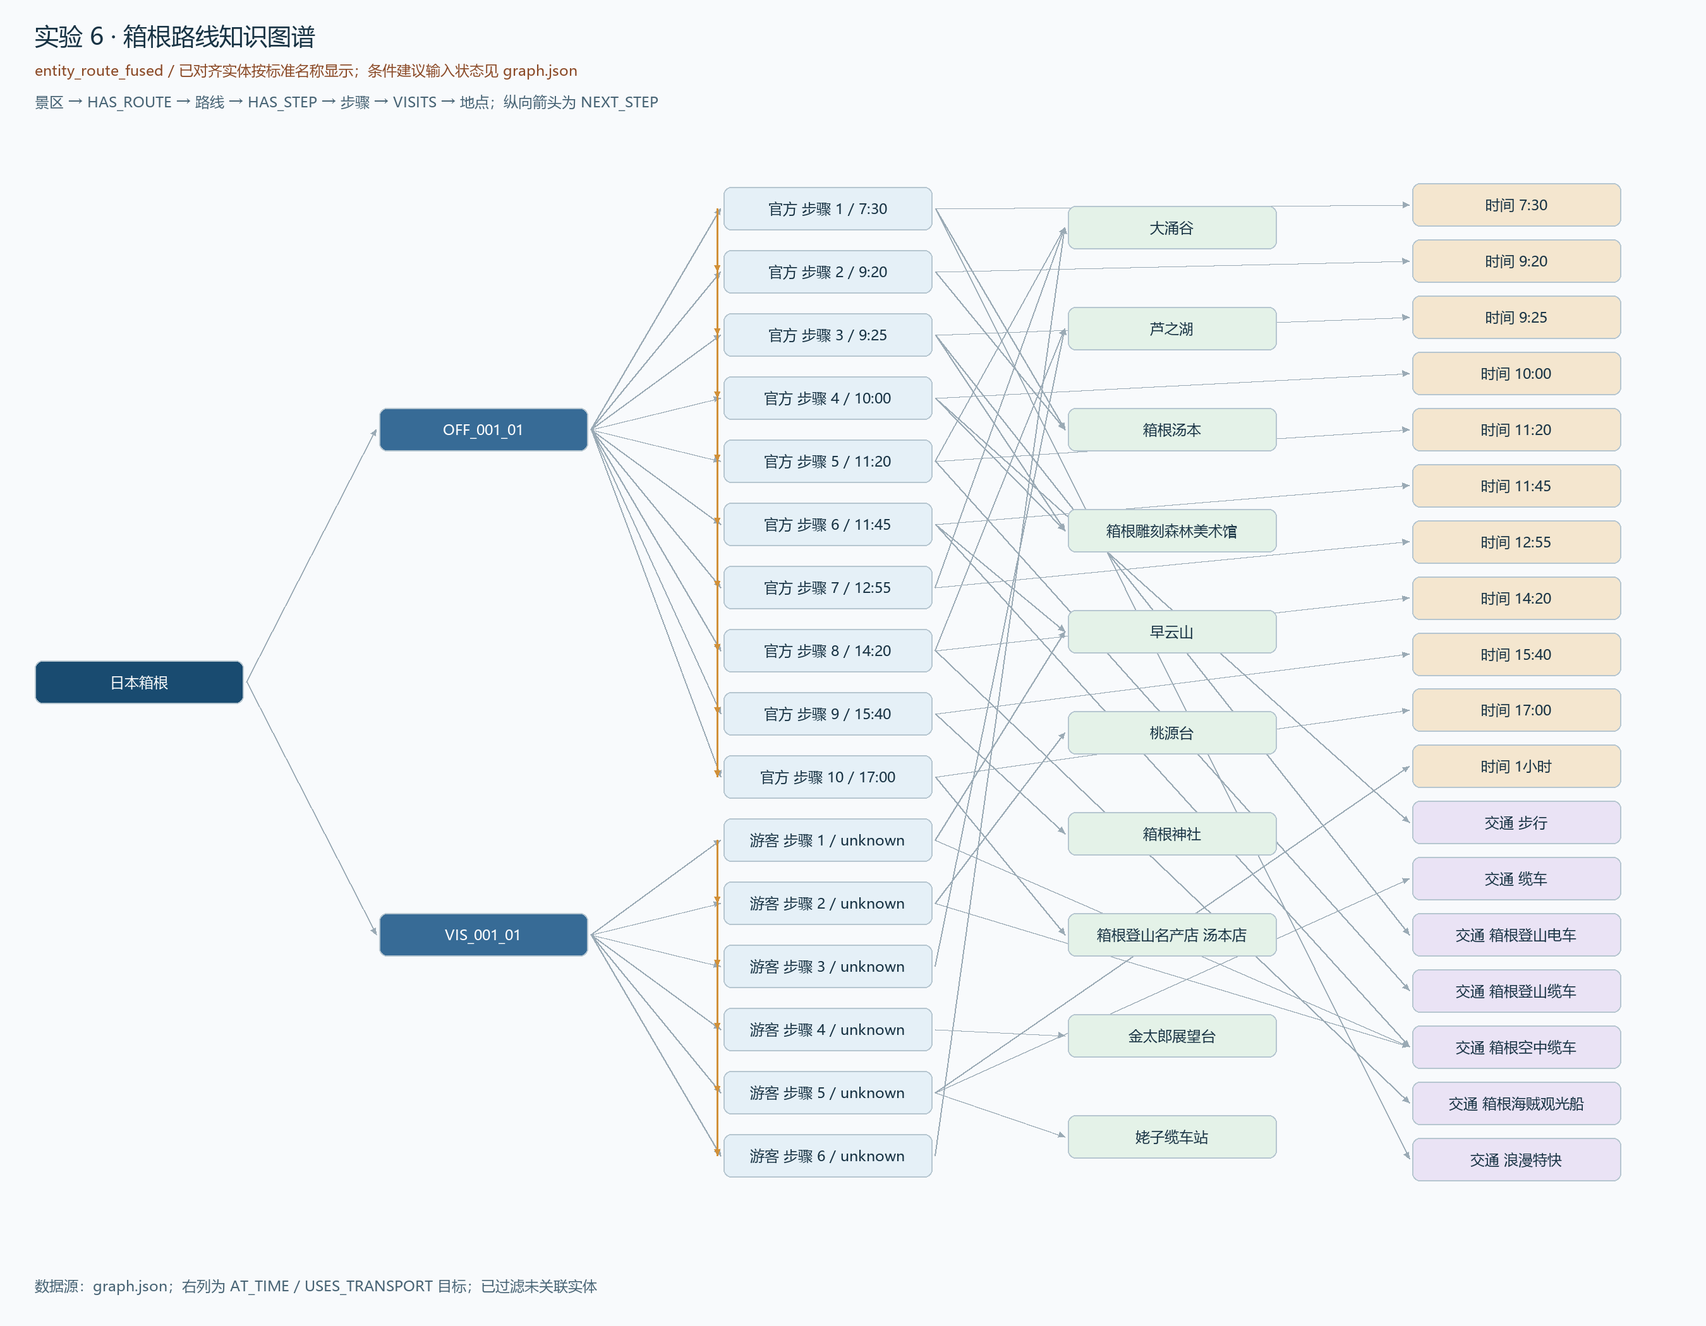
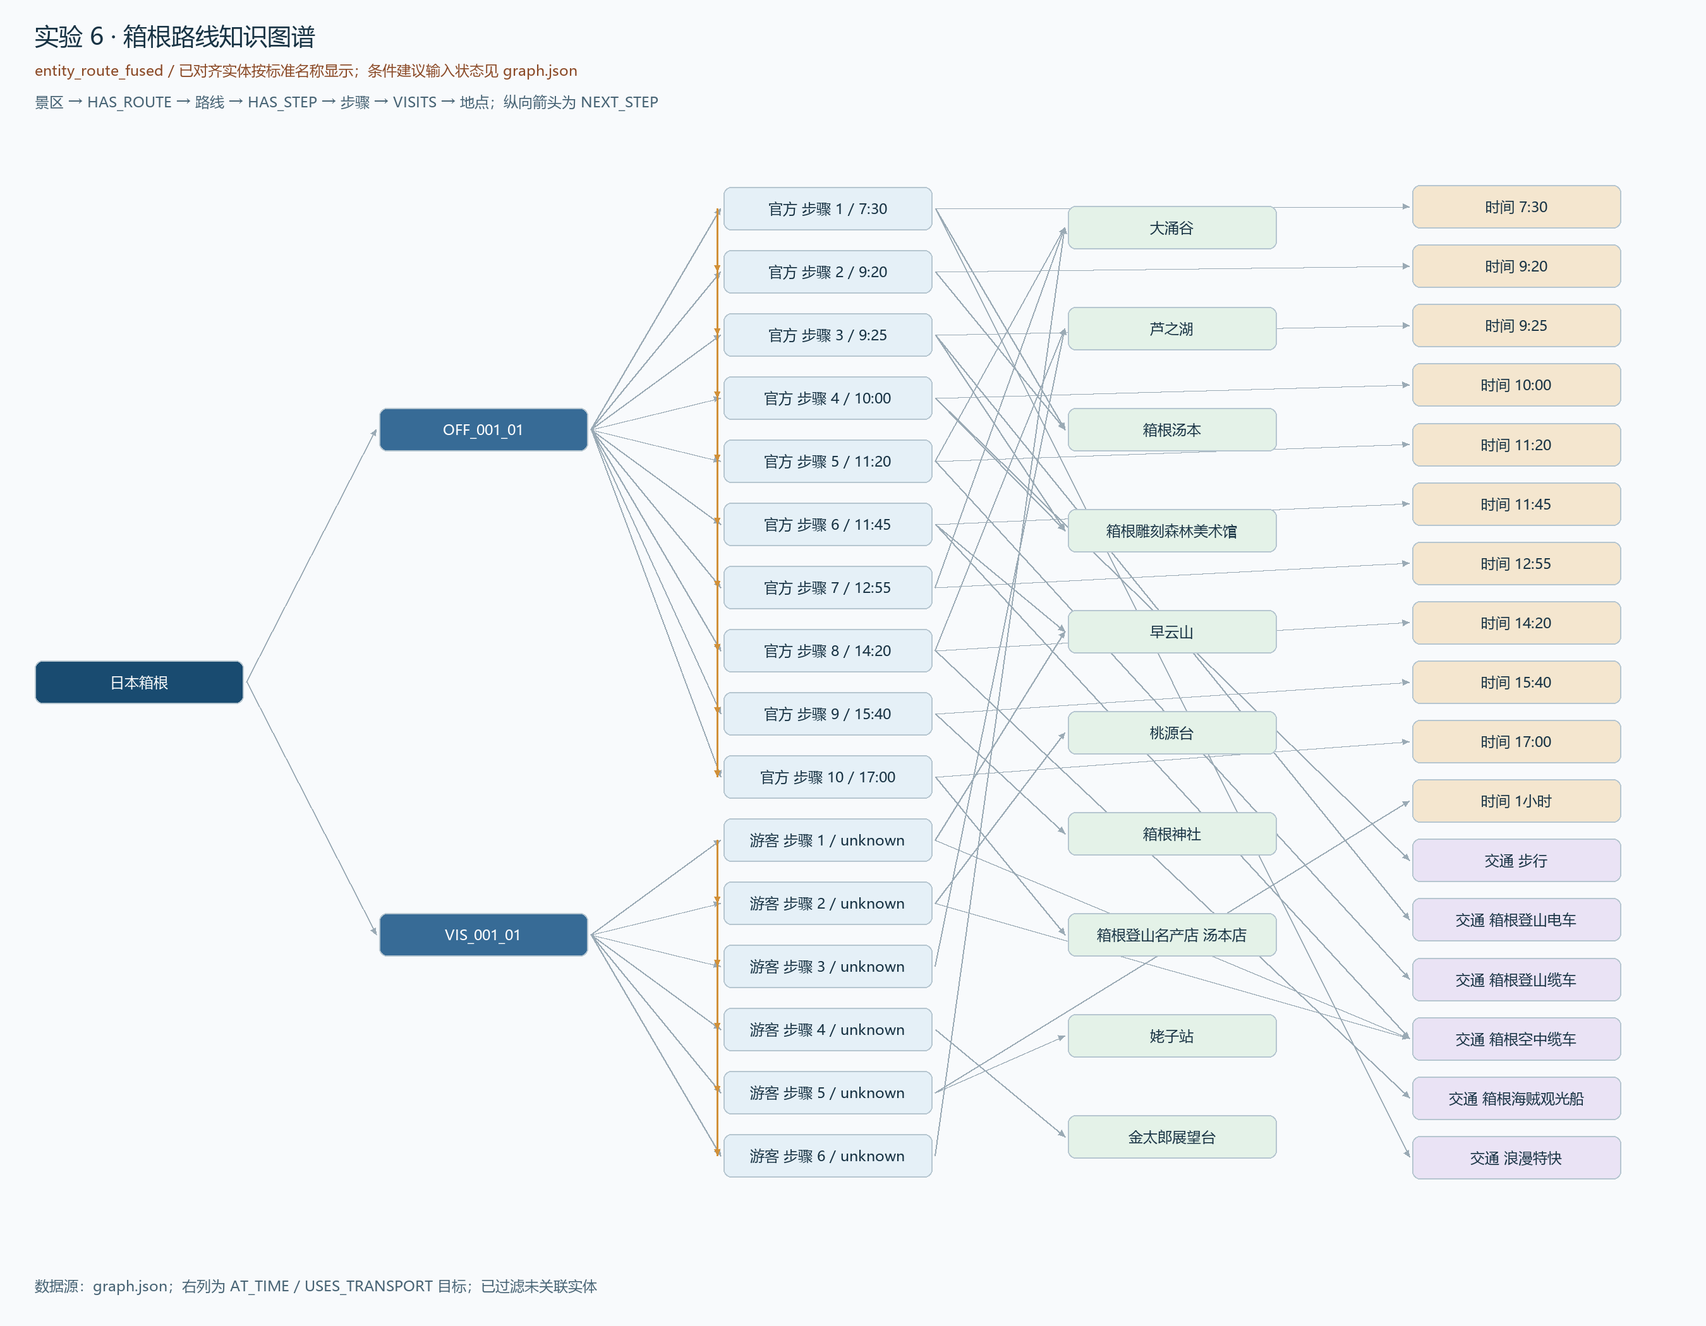
Complete all route entity alignments with DHT exp02-v1.1

diff --git a/src/exp06_verify.py b/src/exp06_verify.py
@@ -74,6 +74,25 @@ def main():
                         "bilingual_resolved": [s for s in alignment if s["alignment_method"] == "bilingual_components"],
                         "inactive_entities_skipped": data.get("inactive_entities_skipped", []),
                         "unused_entity_nodes_filtered": len(data.get("unused_entity_nodes_filtered", []))}
+    confirmation_path = Path("data/resources/exp02_alignment_confirmations.json")
+    if confirmation_path.exists():
+        confirmations = json.loads(confirmation_path.read_text(encoding="utf-8"))
+        assert confirmations["corpus_version"] == data["corpus_version"], "确认文件语料版本不一致"
+        assert confirmations["resource_version"] == data["entity_resource_version"], "实体资源版本不一致"
+        confirmed = []
+        for item in confirmations["mappings"]:
+            ref = item["evidence"]
+            assert docs[ref["doc_id"]]["text"][ref["start"]:ref["end"]] == ref["text"]
+            matched = [s for s in alignment if s["raw_poi_name"] == item["surface"]
+                       and any(e["doc_id"] == ref["doc_id"] for e in s["evidence"])]
+            assert matched, "确认映射未接入路线"
+            assert all(s["entity_id"] == item["entity_id"] for s in matched), "确认映射 ID 错误"
+            assert "N_ENTITY_" + item["entity_id"] in graph, "确认实体未进入图谱"
+            confirmed.append({"surface": item["surface"], "entity_id": item["entity_id"],
+                              "route_steps": [{"route_id": s["route_id"], "step_no": s["step_no"]}
+                                              for s in matched], "passed": True})
+        alignment_result["entity_resource_version"] = confirmations["resource_version"]
+        alignment_result["confirmed_updates"] = confirmed
     Path("results/checks/exp06_alignment.json").write_text(json.dumps(alignment_result, ensure_ascii=False, indent=2) + "\n", encoding="utf-8")
     print(json.dumps({"nodes": graph.number_of_nodes(), "edges": graph.number_of_edges(),
                       "route_checks": len(chain_results), "checks_passed": True}))

diff --git a/src/exp06_graph.py b/src/exp06_graph.py
@@ -175,6 +175,7 @@ def build(routes_data, registry, entities=None, advice=None):
         del nodes[nid]
     missing = [name for name, value in (("entities.json", entities), ("advice.json", advice)) if value is None]
     return {"schema_version": "1.0", "corpus_version": version, "graph_version": "v1",
+            "entity_resource_version": (entities or {}).get("resource_version"),
             "completion_status": "route_stage" if entities is None else "entity_route_fused" if advice is None else "fused",
             "inactive_entities_skipped": sorted(inactive),
             "unused_entity_nodes_filtered": unused,

diff --git a/reports/YZH_当前进度.md b/reports/YZH_当前进度.md
@@ -1,24 +1,22 @@
 # YZH 当前进度与暂停范围
 
-依据 DHT 已提交的实验 1 语料和实验 2 实体（corpus v1、exp02-v1）完成以下工作：
+依据 DHT 已提交的实验 1 语料和实验 2 实体（corpus v1、exp02-v1.1，main 提交 efd920f）完成以下工作：
 
 | 工作 | 当前结果 |
 | --- | --- |
 | 实验 3：路线结构 | 箱根、蓝山两种官方文本格式及对应游客片段；4 条路线、30 个步骤 |
 | 实验 3：比较与图表 | 地点、顺序、时间表达对比；路线层级 PNG、报告、开发集与前后指标齐备 |
-| 实体对齐 | 28/30 步对齐；25 步整串唯一匹配、3 步双语组成部分指向同一 DHT ID |
-| 实验 6：实体路线融合 | 景点、路线、步骤、交通、时间均已接入；83 节点、119 边 |
+| 实体对齐 | 30/30 步对齐；27 步整串唯一匹配、3 步双语组成部分指向同一 DHT ID |
+| 实验 6：实体路线融合 | 景点、路线、步骤、交通、时间均已接入；82 节点、118 边 |
 | 质量与复现 | 原文位置、来源、步骤链、图查询检查通过；无孤立节点；12 项接口与边界测试通过 |
 | 交接 | JSON、CSV、两张 PNG、运行说明、实验 3/6 报告及接收记录已更新 |
 
 以上是当前已交付数据支持的工作范围，不需要等待 DHT 再次提供语料或实体文件。开发集参考标注由本次开发辅助整理，仍需组员独立复核；开发集 30/30 不代表全语料准确率。
 
-已检查并同步 DHT 最新实验 4 提交 c258291：59 例共指、404 处证据位置验证通过；同步后图谱与 12 项测试仍通过。该提交未改变实体目录或两处待确认名称，故未解除下列暂停项。接收细节见 results/checks/exp06_exp04_receipt.md；未将未经逐例复核的共指预测写为图谱事实。
+已接收 DHT 实验 4 共指结果并完成兼容检查，未将未经逐例复核的共指预测写为图谱事实。此后 DHT 在 efd920f 中补齐两处实体映射：姥子缆车站→姥子站 S001_POI_026；野餐区→独立实体 S003_POI_052。两处路线及图谱引用已验证，DHT 数据缺口已解除。
 
 ## 暂停的工作
 
-1. **姥子缆车站的标准 ID**：DHT 目录登记“姥子站”，尚未登记当前原词为其别名。暂停该步归一化，保留原词、null ID 和证据，待 DHT 确认。
-2. **温特沃斯瀑布野餐区的标准 ID**：不能把野餐区直接归为瀑布、步道或镇区。暂停该步归一化，待 DHT 确认独立实体或映射。
-3. **条件建议融合与相关查询**：FYH 的 data/outputs/advice.json 尚未提交，暂停真实建议融合。现有图谱状态为 entity_route_fused，missing_inputs=[advice.json]。
+仅暂停**条件建议融合与相关查询**：FYH 的 data/outputs/advice.json 尚未提交。现有图谱状态为 entity_route_fused，missing_inputs=[advice.json]。该项到位后继续真实建议融合、图查询、图表及报告更新。
 
-两处名称的路线编号、步骤和原文区间见 results/checks/exp06_alignment.json。没有改写 DHT 的目录，也没有编造建议。相关数据到位并恢复工作后，按 YZH_运行与验收.md 复跑、更新图表及报告；暂停期间不后台轮询或自动推进这些部分。
+已完成的两处名称确认、步骤和原文区间见 results/checks/exp06_alignment.json，pending 为空。当前没有剩余 DHT 数据依赖。相关建议数据到位并恢复工作后，按 YZH_运行与验收.md 复跑；暂停期间不后台轮询或编造建议。组员对参考标注和接收样例的独立复核仍待完成。

diff --git a/results/checks/exp06_handoff.md b/results/checks/exp06_handoff.md
@@ -2,12 +2,12 @@
 
 - 版本：schema_version=1.0、corpus_version=v1、graph_version=v1；当前 completion_status=entity_route_fused。
 - 交付：src/exp06_graph.py、src/exp06_verify.py、src/yzh_figures.py；data/outputs/graph.json、graph_nodes.csv、graph_edges.csv；reports/exp06_graph.md；results/figures/exp06_hakone_graph.png；质量与查询证据 exp06_quality.json。
-- 输入：景区登记表、routes.json、DHT 正式 entities.json（exp02-v1）；仅缺少 FYH 的 advice.json。
-- 数量：83 节点、119 边，覆盖箱根与蓝山 4 条路线及关联交通、时间实体；30 步中 28 步对齐。无孤立节点，2 个弱连通分量分别对应两个景区。
+- 输入：景区登记表、routes.json、DHT 正式 entities.json（exp02-v1.1）；仅缺少 FYH 的 advice.json。
+- 数量：82 节点、118 边，覆盖箱根与蓝山 4 条路线及关联交通、时间实体；30 步中 30 步对齐。无孤立节点，2 个弱连通分量分别对应两个景区。
 - 依赖与命令：pip install -r requirements-yzh.txt；python src/exp03_routes.py；python src/exp06_graph.py；python src/exp06_verify.py；python src/yzh_figures.py。
 - 输入输出例：R_S001_OFF_001_01 生成 N_ROUTE_R_S001_OFF_001_01；第 1 步生成 N_STEP_R_S001_OFF_001_01_001，由 HAS_STEP 连接，步骤再沿 VISITS 指向地点。
 - 查询样例：① S001 沿 HAS_ROUTE → 2 条路线；② 官方箱根路线沿 HAS_STEP → 10 步；③ 大涌谷入向 VISITS → 3 个步骤。查询在 NetworkX 图上执行并保存真实返回值，见 exp06_quality.json。
 - FYH 读取：json.load 后遍历 nodes/edges，或使用 exp06_verify.py 的 MultiDiGraph 加载方式。先检查 completion_status、missing_inputs；尚未接入建议时不要把空结果表述为“没有相关建议”。本次未改写 FYH 的 Agent 或工具代码。
 - Schema 方向见 reports/exp06_graph.md。节点与边均有 source_refs，步骤和提取边的 attributes.evidence 可核对原文。不同路线的 NEXT_STEP 分开保留。
-- 已知问题：2 个未唯一匹配地点的 entity_id 为 null，证据见 exp06_alignment.json；按标准实体 ID 或路线 ID 查询。没有可靠停留时长，不支持计算精确行程耗时；历史原文不代表当前开放/价格状态。条件建议尚未接入，后续由 FYH 交付后补做。
+- 名称对齐已完成，30 步 entity_id 均有效，原先两处暂停项的确认检查见 exp06_alignment.json。按标准实体 ID 或路线 ID 查询。没有可靠停留时长，不支持计算精确行程耗时；历史原文不代表当前开放/价格状态。条件建议尚未接入，后续由 FYH 交付后补做。
 - 接收人样例读取与确认：待 FYH/DHT 完成，不代签。

diff --git a/reports/exp03_routes.md b/reports/exp03_routes.md
@@ -1,6 +1,6 @@
 # 实验 3：游览路线的层级结构挖掘
 
-负责人：YZH。数据版本：schema_version=1.0、corpus_version=v1。已接入 DHT 的正式 entities.json（exp02-v1），30 步中 28 步唯一对齐、2 步保留待确认；参考标注等待组员复核。
+负责人：YZH。数据版本：schema_version=1.0、corpus_version=v1。已接入 DHT 正式 entities.json（exp02-v1.1），30/30 步完成唯一实体对齐，无待确认名称；参考标注等待组员复核。
 
 ## 1. 输入与模式分析
 
@@ -42,7 +42,7 @@
 
 ## 4. 名称对齐、噪声与失败分析
 
-仅在 DHT 活跃实体目录中“同景区 + POI 类型 + 正式名或别名精确匹配”唯一命中时，填写 poi_entity_id 并采用 canonical_name；多义别名保持待确认，不按名字相似度强行合并。父区域与子景点不自动合并。DHT 已确认“早云山/早云山站”和“箱根汤本/箱根汤本站”的当前目录映射，本次据此对齐，同时保留其关于站区粒度的 note。raw_poi_name 保留原词。2 个未匹配地点及证据见 results/checks/exp06_alignment.json。
+仅在 DHT 活跃实体目录中“同景区 + POI 类型 + 正式名或别名精确匹配”唯一命中时，填写 poi_entity_id 并采用 canonical_name；多义别名保持待确认，不按名字相似度强行合并。父区域与子景点不自动合并。DHT 已确认早云山与箱根汤本的别名映射，并在 exp02-v1.1 新增“姥子缆车站”别名和独立的温特沃斯瀑布野餐区实体。本次依据正式目录对齐，保留 note、原词 raw_poi_name 和证据。确认映射验收见 results/checks/exp06_alignment.json。
 
 真实失败 1：首版把“从大涌谷前往芦之湖”匹配为大涌谷，原因是按词表首个命中取名。改为优先目的地后，第 8 步输出芦之湖；多目的地或复合行程仍需额外句法判断。
 
@@ -52,7 +52,7 @@
 
 ## 5. 复现与交接
 
-补充对齐规则：中英文复合串可以拆成两个完整名称，仅当它们分别唯一指向 DHT 同一活跃 POI ID 时对齐。25 步按整串名称匹配、3 步按双语组成部分一致匹配；2 步待确认。不丢弃父子景点后缀，不新增 DHT 的别名。
+补充对齐规则：中英文复合串可以拆成两个完整名称，仅当它们分别唯一指向 DHT 同一活跃 POI ID 时对齐。27 步按整串名称匹配、3 步按双语组成部分一致匹配；无待确认项。不丢弃父子景点后缀，不擅自新增 DHT 的别名。
 
 算法与评估只使用 Python 标准库，Python 3.11+。图表另需 Pillow；依赖与完整顺序见 reports/YZH_运行与验收.md。运行：
 

diff --git a/results/checks/exp06_dht_receipt.md b/results/checks/exp06_dht_receipt.md
@@ -1,9 +1,9 @@
 # YZH 对 DHT 实验 2 的接收记录
 
-已同步 origin/main 的 a71afcf 提交；合并时仅 .gitignore 的独立新增项冲突，已同时保留双方规则，没有改写 DHT 的实体文件和资源。
+已同步 origin/main 的 efd920f 提交及其 exp02-v1.1 实体对齐确认文件。未改写 DHT 的实体文件和资源。
 
-读取正式 entities.json：schema_version=1.0、corpus_version=v1、resource_version=exp02-v1；327 条目录，326 条活跃，1 条停用，1403 次提及。构建器过滤停用记录。实体原文证据、来源文档和版本已在真实融合后的图谱检查中验证。
+读取正式 entities.json：schema_version=1.0、corpus_version=v1、resource_version=exp02-v1.1；328 条目录，327 条活跃，1 条停用，1403 次提及。构建器过滤停用记录。实体原文证据、来源文档和版本已在真实融合后的图谱检查中验证。
 
-本次 30 个步骤有 28 个唯一映射到正式 POI ID；其余 2 个记录及原文证据见 exp06_alignment.json。当前真实图谱包含 AT_TIME 14 条、USES_TRANSPORT 15 条，均依据实际提及区间建立；没有重新推测交通线路或时间。
+本次 30/30 步唯一映射到正式 POI ID，无剩余名称缺口。新增两处确认：R_S001_VIS_001_01 第 5 步→S001_POI_026，R_S003_OFF_001_01 第 2 步→S003_POI_052；原文与图谱检查见 exp06_alignment.json。当前图谱包含 AT_TIME 14 条、USES_TRANSPORT 14 条，依据实际提及区间建立；没有重新推测交通线路或时间。
 
 已实际读取箱根官方 7:30 的时间实体、完成路线与实体融合并复跑质量检查。此记录表示 YZH 模块已程序接收，不代表三名成员已独立人工复核。待确认名称只形成反馈文件，未擅自添加别名或修改标准实体 ID。

diff --git a/reports/YZH_反思与研究计划.md b/reports/YZH_反思与研究计划.md
@@ -4,7 +4,7 @@
 
 1. 箱根官方“从大涌谷前往芦之湖”首版匹配成大涌谷。直接原因是按词表顺序选择首个命中；方法层面没有区分出发点、目的地和眺望对象。修改为优先识别“前往”后的目的地后，第 8 步已输出芦之湖。该规则仍可能在多个目的地或条件分支中出错。
 2. 蓝山“山地文化啤酒公司”曾漏抽。原规则为了去除图片说明，把较短句子过滤，误伤真正的推荐地点。不是词表漏词，而是边界过滤造成系统性漏召回。修复时保留带推荐语义的短句，开发集从 11/12 提高到 12/12，前后指标见 exp03_metrics_before.json 和 exp03_metrics.json。后续应在独立网页段落集检验该改动是否引入图片标题误抽。
-3. 前版图谱“早云山/早云山站”节点分裂。原因是当时尚无统一实体目录；本次接入 DHT 已确认的别名后，两个来源步骤均指向 S001_POI_009。仍有 2 个名称/粒度未唯一匹配，保留 pending 与证据，防止把野餐区与瀑布等不同对象误合并。
+3. 前版图谱“早云山/早云山站”节点分裂，接入 DHT 确认的别名后均指向 S001_POI_009。另两处名称曾因站点别名缺失和野餐区粒度不明而暂停；DHT exp02-v1.1 增加别名和独立野餐区实体后，已完成全部 30 步对齐。这说明应以带证据的目录确认解决实体边界，不能为提高对齐率将野餐区强行并入瀑布。
 
 ## 局限
 

diff --git a/results/checks/exp03_handoff.md b/results/checks/exp03_handoff.md
@@ -5,6 +5,6 @@
 - 命令：python src/exp03_routes.py；python src/exp03_evaluate.py。算法入口无额外依赖。
 - 统计：2 景区、4 文档、4 路线、30 步、31 段原文证据。开发集匹配修复前 29/30、修复后 30/30；未处理其余 14 篇。
 - 输入输出例：S001_OFF_001 的 7:30 标题生成 R_S001_OFF_001_01 第 1 步，目的地“箱根汤本”，time_text=7:30，time_bucket=morning；证据按正文 [start,end) 可回查。
-- 已接收 DHT 的 entities.json（exp02-v1），30 步中 28 步对齐，2 步未唯一匹配；具体证据见 exp06_alignment.json。短句过滤漏抽已修复并保存前后指标；参考标注参与过开发，需组员复核与新增独立测试。
-- DHT 已确认早云山/早云山站、箱根汤本/箱根汤本站的目录映射，本次据此对齐。新增 2 个待确认名称由 exp06_alignment.json 交回，不擅自改写 DHT 目录。
+- 已接收 DHT 的 entities.json（exp02-v1.1），30/30 步完成对齐，无待确认项；具体证据见 exp06_alignment.json。短句过滤漏抽已修复并保存前后指标；参考标注参与过开发，需组员复核与新增独立测试。
+- DHT 已确认全部名称映射；本次新增接入姥子缆车站→S001_POI_026、野餐区→S003_POI_052，程序检查确认文件、原文位置、路线和图谱引用。不擅自改写 DHT 目录。
 - 实际读取样例和接收确认：待 DHT/FYH 完成，不代签。

diff --git a/reports/YZH_运行与验收.md b/reports/YZH_运行与验收.md
@@ -23,10 +23,10 @@
 | 两个景区、两类官方格式 | 已实现钟点标题和时间段标题；4 条路线、30 步 |
 | 官方与游客多维比较 | 地点 Jaccard、顺序 LCS、时间表达覆盖，见 exp03_comparison.md |
 | 开发集参考顺序 | 参考 30 步，修复前匹配 29、修复后匹配 30；31 段原文证据有效，见 exp03_metrics.json |
-| 正式图谱基本质量 | 83 节点、119 边；4 条步骤链顺序、连通、来源检查通过；无孤立节点 |
+| 正式图谱基本质量 | 82 节点、118 边；4 条步骤链顺序、连通、来源检查通过；无孤立节点 |
 | 合成接口测试 | 12 项通过；仅验证代码与异常分支，不计为正式实验数据 |
 | 图表 | 两张 PNG 已生成并查看：路线层级图、箱根图谱 |
-| 名称归一化 | 已接入 DHT 正式目录，28/30 步对齐，2 步待确认，见 exp06_alignment.json |
+| 名称归一化 | 已接入 DHT exp02-v1.1，30/30 步对齐，无待确认名称，见 exp06_alignment.json |
 | 多源融合实测 | 实体、路线、交通、时间融合通过；条件建议等待 FYH 的可选输入 |
 | 人员验收 | 参考标注及接收样例待组员复核 |
 

diff --git a/results/checks/exp06_exp04_receipt.md b/results/checks/exp06_exp04_receipt.md
@@ -1,5 +1,7 @@
 # YZH 对 DHT 实验 4 新提交的接收检查
 
+本文件是接收 c258291 时的历史记录。后续 efd920f 已解决文末提到的两处名称等待项；最新状态见 reports/YZH_当前进度.md。
+
 已同步 main 的 c258291（Complete experiment 4 coreference and validation）至 yzh/routes-graph。新增的是共指消解、示例全文和验证材料；正式实体目录及实验 2 别名资源未改变，未新增 advice.json。
 
 执行 python src/exp04_verify.py：5 篇、59 例共指、404 处证据位置通过结构检查，原始语料及实体输入哈希未变，消解结果可稳定复跑。DHT 报告的目的选样开发集总体准确率为 38/59=64.41%，结构通过不能解释为预测全部正确。
